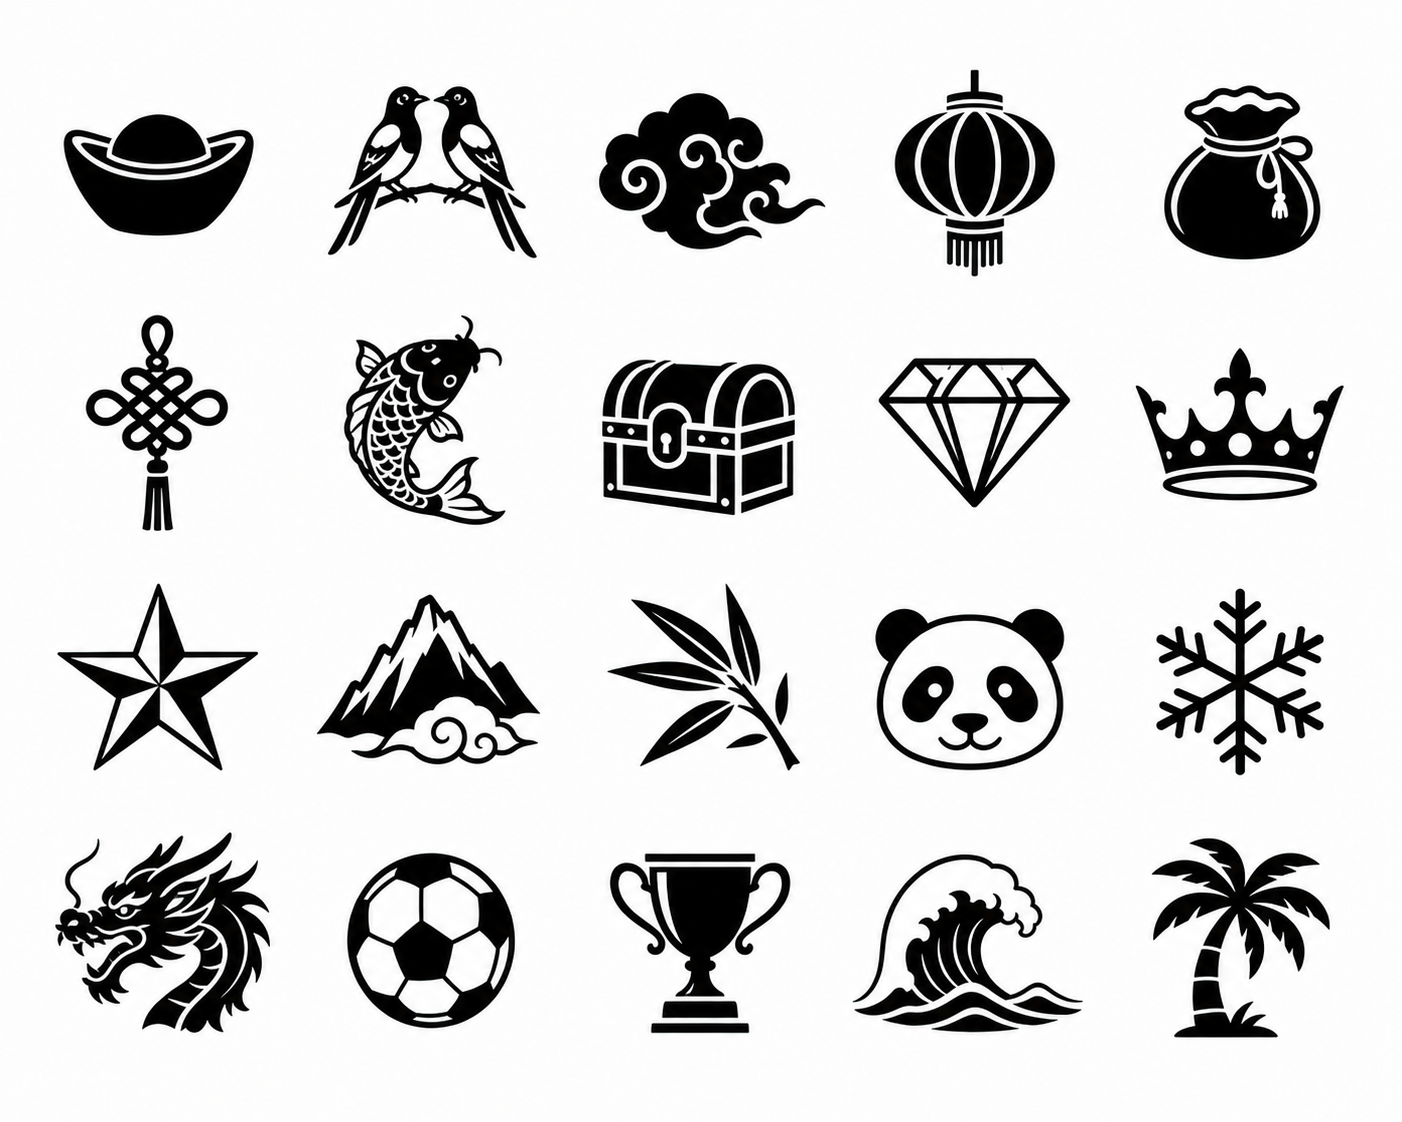
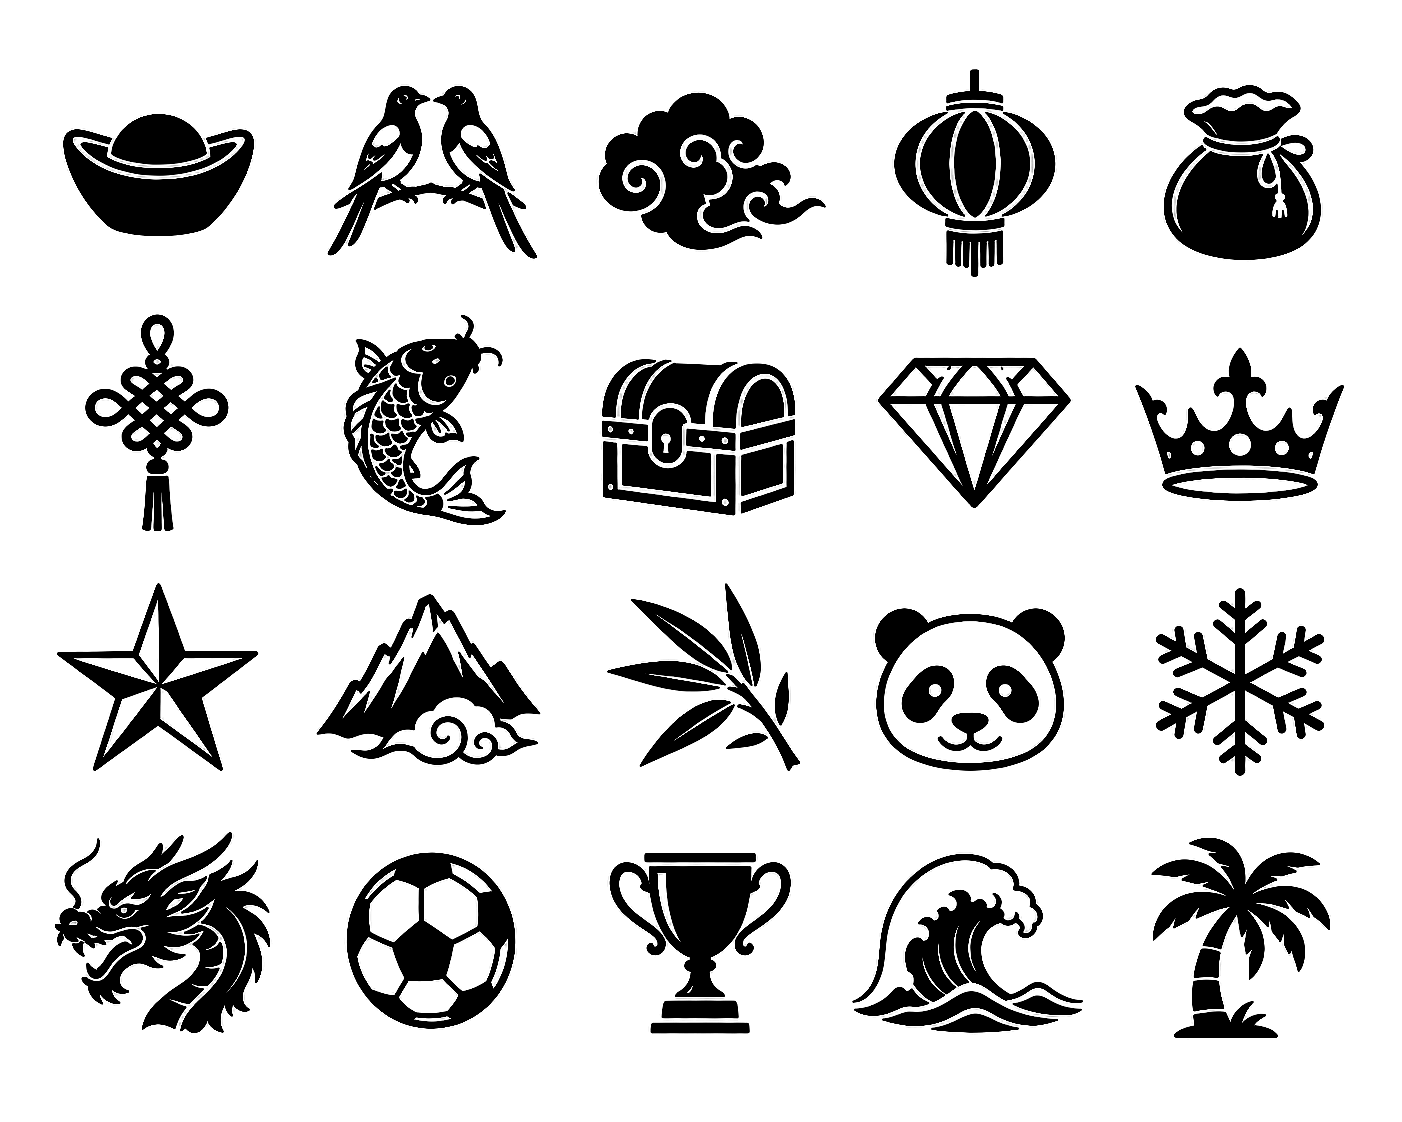
fix: render all mini-program symbols with native images

diff --git a/miniprogram/symbol-map.js b/miniprogram/symbol-map.js
@@ -145,6 +145,9 @@ function decoratePart(label) {
     label,
     glyph,
     sheet: glyph.startsWith("g2-") ? "sprite-v2" : "sprite-v1",
+    spriteSrc: glyph.startsWith("g2-")
+      ? "/assets/ticket-symbols-v2.png"
+      : "/assets/ticket-symbols-v1.png",
     text,
   };
 }

diff --git a/CHANGELOG.md b/CHANGELOG.md
@@ -4,10 +4,13 @@
 
 ## 未发布
 
+- 修复微信真机不支持本地 WXSS `background-image` 图符雪碧图的问题；所有图符改为原生 `<image>` 组件裁切渲染。
+- 将首批 20 枚旧图符转换为透明黑色 PNG，和新增图符在灰底票面上统一显示，不再出现白底或整批空白。
+- 为全部页面启用边框盒尺寸与横向溢出保护，并针对窄屏重排预算输入、商店信息、票面标题、工具栏、验票列表和收据。
+- 微信小程序开发版本更新为 `0.1.2`。
 - 修复微信小程序竖屏窄屏下刮具三列被按钮最小内容宽度撑出屏幕的问题，并收紧票头、票脚、玩法网格与对话区的响应式约束。
 - 新增 25 枚原创矢量母版图符，覆盖猫、熊猫、灵蛇、脸谱、二胡、华表、折扇等此前降级为文字的符号。
 - 图符映射独立为可测试模块；除数字和指定汉字奖符外，票库图符与未知图符都必须渲染为稳定图形。
-- 微信小程序开发版本更新为 `0.1.1`。
 - 新增原生微信小程序客户端 `miniprogram/`，支持预算、当天库存、单张/老板代拿/密封整本、三种刮具、Canvas 2D 逐步刮膜、柜台重新验奖与奖金换票。
 - 新增共享规则同步脚本，网页票库、整本奖池、票面生成和验奖引擎自动转换为小程序 CommonJS，避免双端规则漂移。
 - 新增小程序跨端 oracle 测试：覆盖 60 款票的每个奖级、空票与整本固定种子，验证网页端和小程序端输出完全一致。

diff --git a/docs/WECHAT_MINIPROGRAM_PLAN.md b/docs/WECHAT_MINIPROGRAM_PLAN.md
@@ -18,7 +18,7 @@ app/ticket-engine.js  ─┘                │
 
 彩票结果在整本生成时确定。小程序验票时重新调用 `evaluateVisiblePrize`，只读取玩家看见的中奖号码、图符和金额；隐藏的计划奖金只用于一致性断言，不参与结算。
 
-当前已完成可导入微信开发者工具的 `0.1.1-mp` 版本。它不依赖服务器、不要求微信登录，也不连接真实支付、彩票购买或兑奖系统。
+当前已完成可导入微信开发者工具的 `0.1.2-mp` 版本。它不依赖服务器、不要求微信登录，也不连接真实支付、彩票购买或兑奖系统。
 
 ## 第一阶段：本地原生版（本次已完成）
 
@@ -111,7 +111,7 @@ npm test
 
 ```powershell
 $env:WECHAT_PRIVATE_KEY_PATH='你的上传密钥绝对路径'
-$env:WECHAT_UPLOAD_VERSION='0.1.1'
+$env:WECHAT_UPLOAD_VERSION='0.1.2'
 npm run upload:miniprogram
 ```
 
@@ -119,6 +119,6 @@ npm run upload:miniprogram
 
 使用同一组环境变量执行 `npm run preview:miniprogram`，可在忽略提交的 `outputs/` 目录生成微信官方预览二维码。预览码仅供该小程序的管理员、开发成员和体验成员扫码。
 
-`0.1.1` 已于 2026-08-08 成功上传为开发版本；上传开发版本不会自动提交审核或发布。
+`0.1.2` 已于 2026-08-08 成功上传为开发版本；上传开发版本不会自动提交审核或发布。
 
 正式预览码、体验版和提交审核必须使用用户自己的微信小程序账号与 AppID；代码仓库无法代替这一步。

diff --git a/README.md b/README.md
@@ -66,7 +66,7 @@ npm test
 
 ## 微信小程序版
 
-仓库内已包含原生微信小程序适配版，目录为 [`miniprogram/`](miniprogram/)；它不是网页 WebView，也不需要 ChatGPT 登录。当前小程序版本为 `0.1.1-mp`，具备进店、预算、选票、整本、逐步刮膜、柜台验奖和奖金换票的完整闭环。
+仓库内已包含原生微信小程序适配版，目录为 [`miniprogram/`](miniprogram/)；它不是网页 WebView，也不需要 ChatGPT 登录。当前小程序版本为 `0.1.2-mp`，具备进店、预算、选票、整本、逐步刮膜、柜台验奖和奖金换票的完整闭环。
 
 修改主票库或验奖规则后先同步：
 
@@ -77,7 +77,7 @@ npm run check:miniprogram
 
 然后在微信开发者工具里导入 `miniprogram/`。项目已配置小程序 AppID `wx6ea3bd67ad8d311a`；上传体验版或正式发布时需要使用该小程序的开发者身份。
 
-`0.1.1` 已于 2026-08-08 上传为微信公众平台开发版本。后续版本可通过仓库内的官方上传工具发布，具体命令和密钥安全要求见迁移文档。
+`0.1.2` 已于 2026-08-08 上传为微信公众平台开发版本。后续版本可通过仓库内的官方上传工具发布，具体命令和密钥安全要求见迁移文档。
 
 完整迁移阶段、真机测试清单和发布风险见 [`docs/WECHAT_MINIPROGRAM_PLAN.md`](docs/WECHAT_MINIPROGRAM_PLAN.md)。
 
